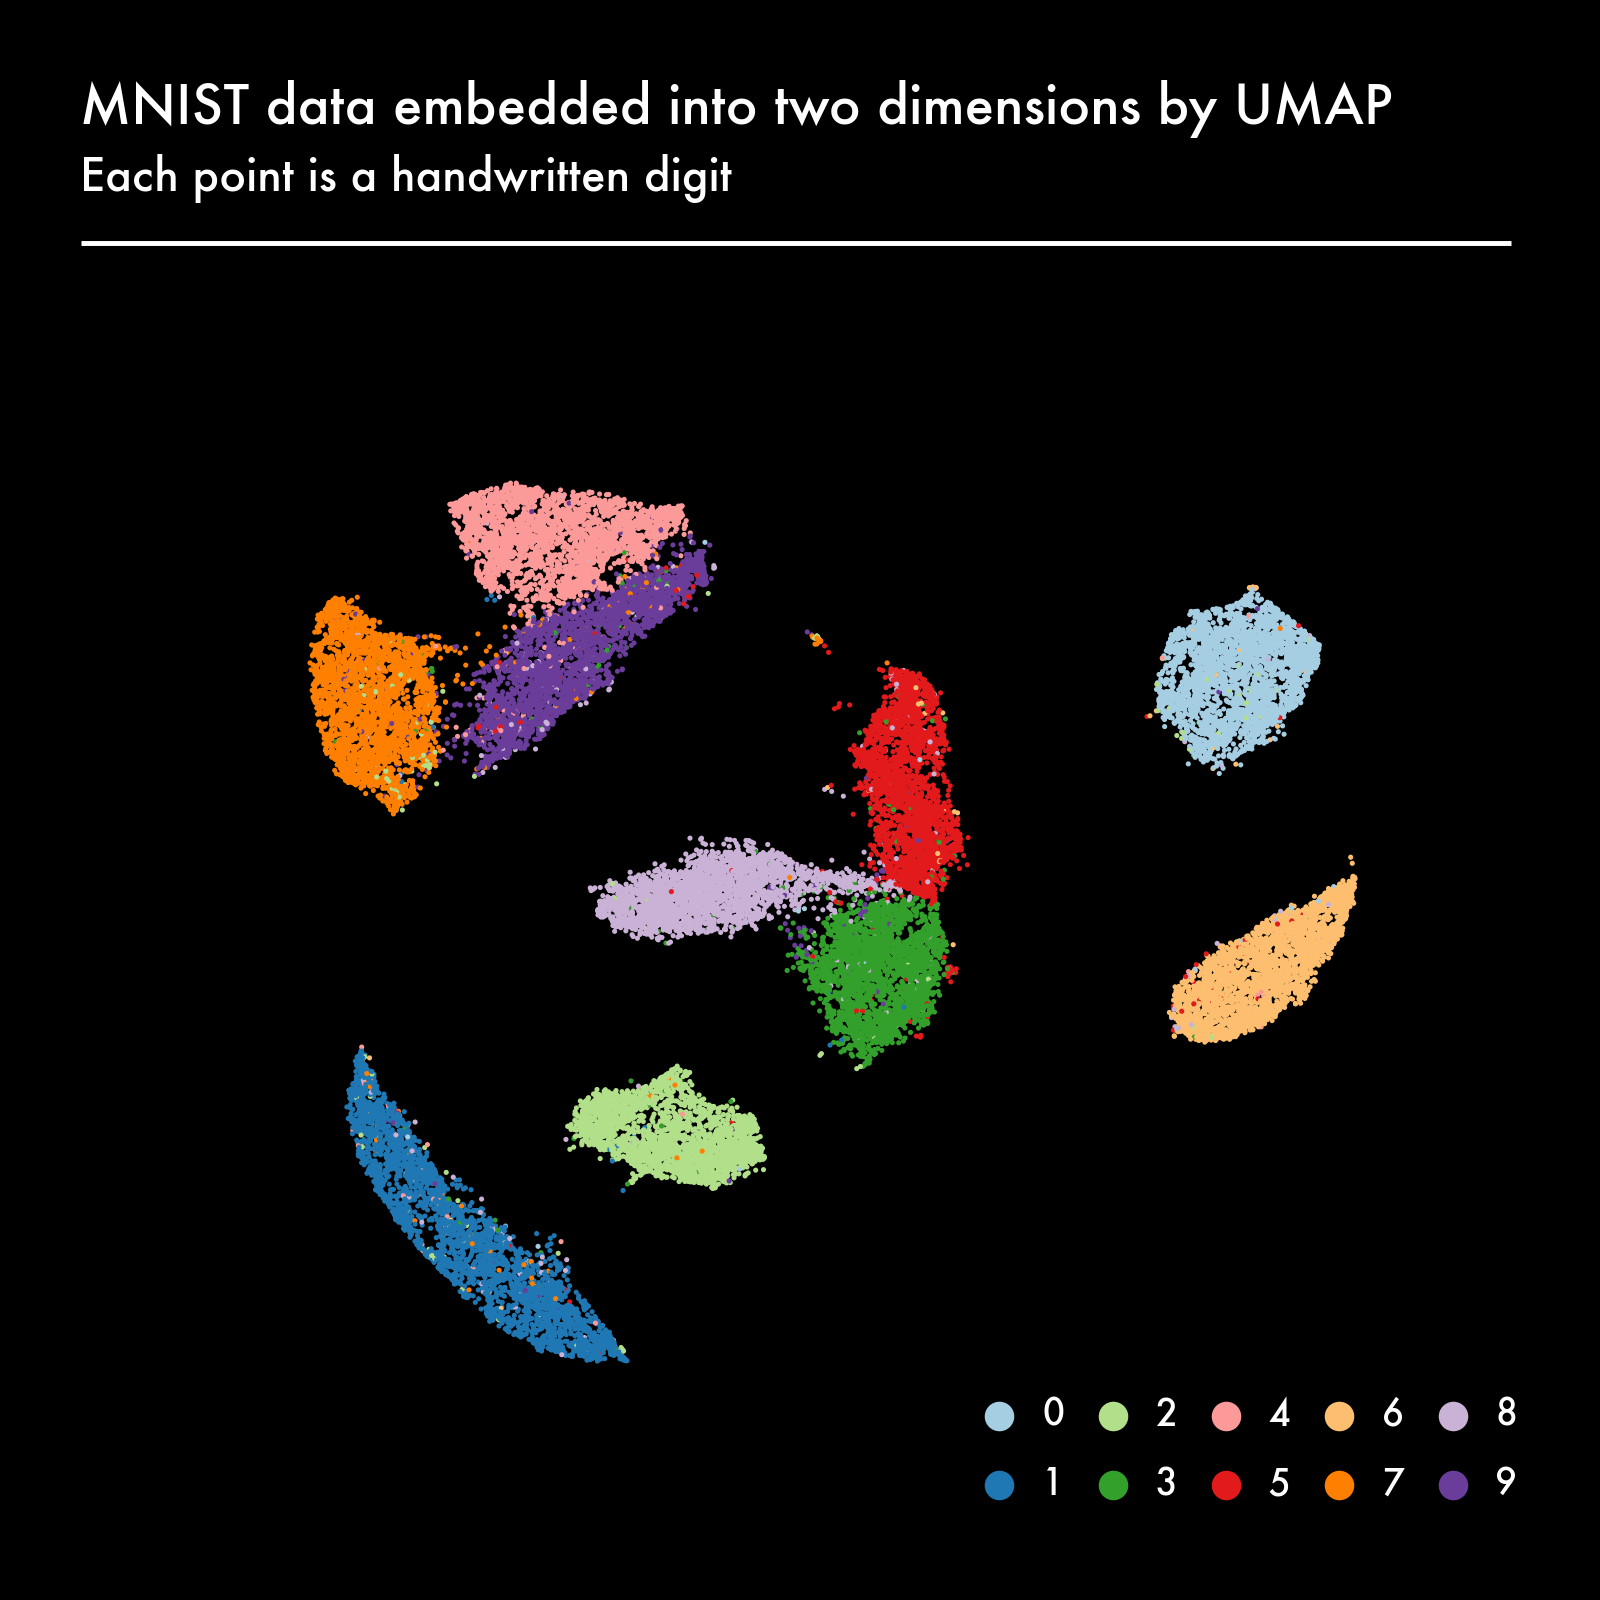
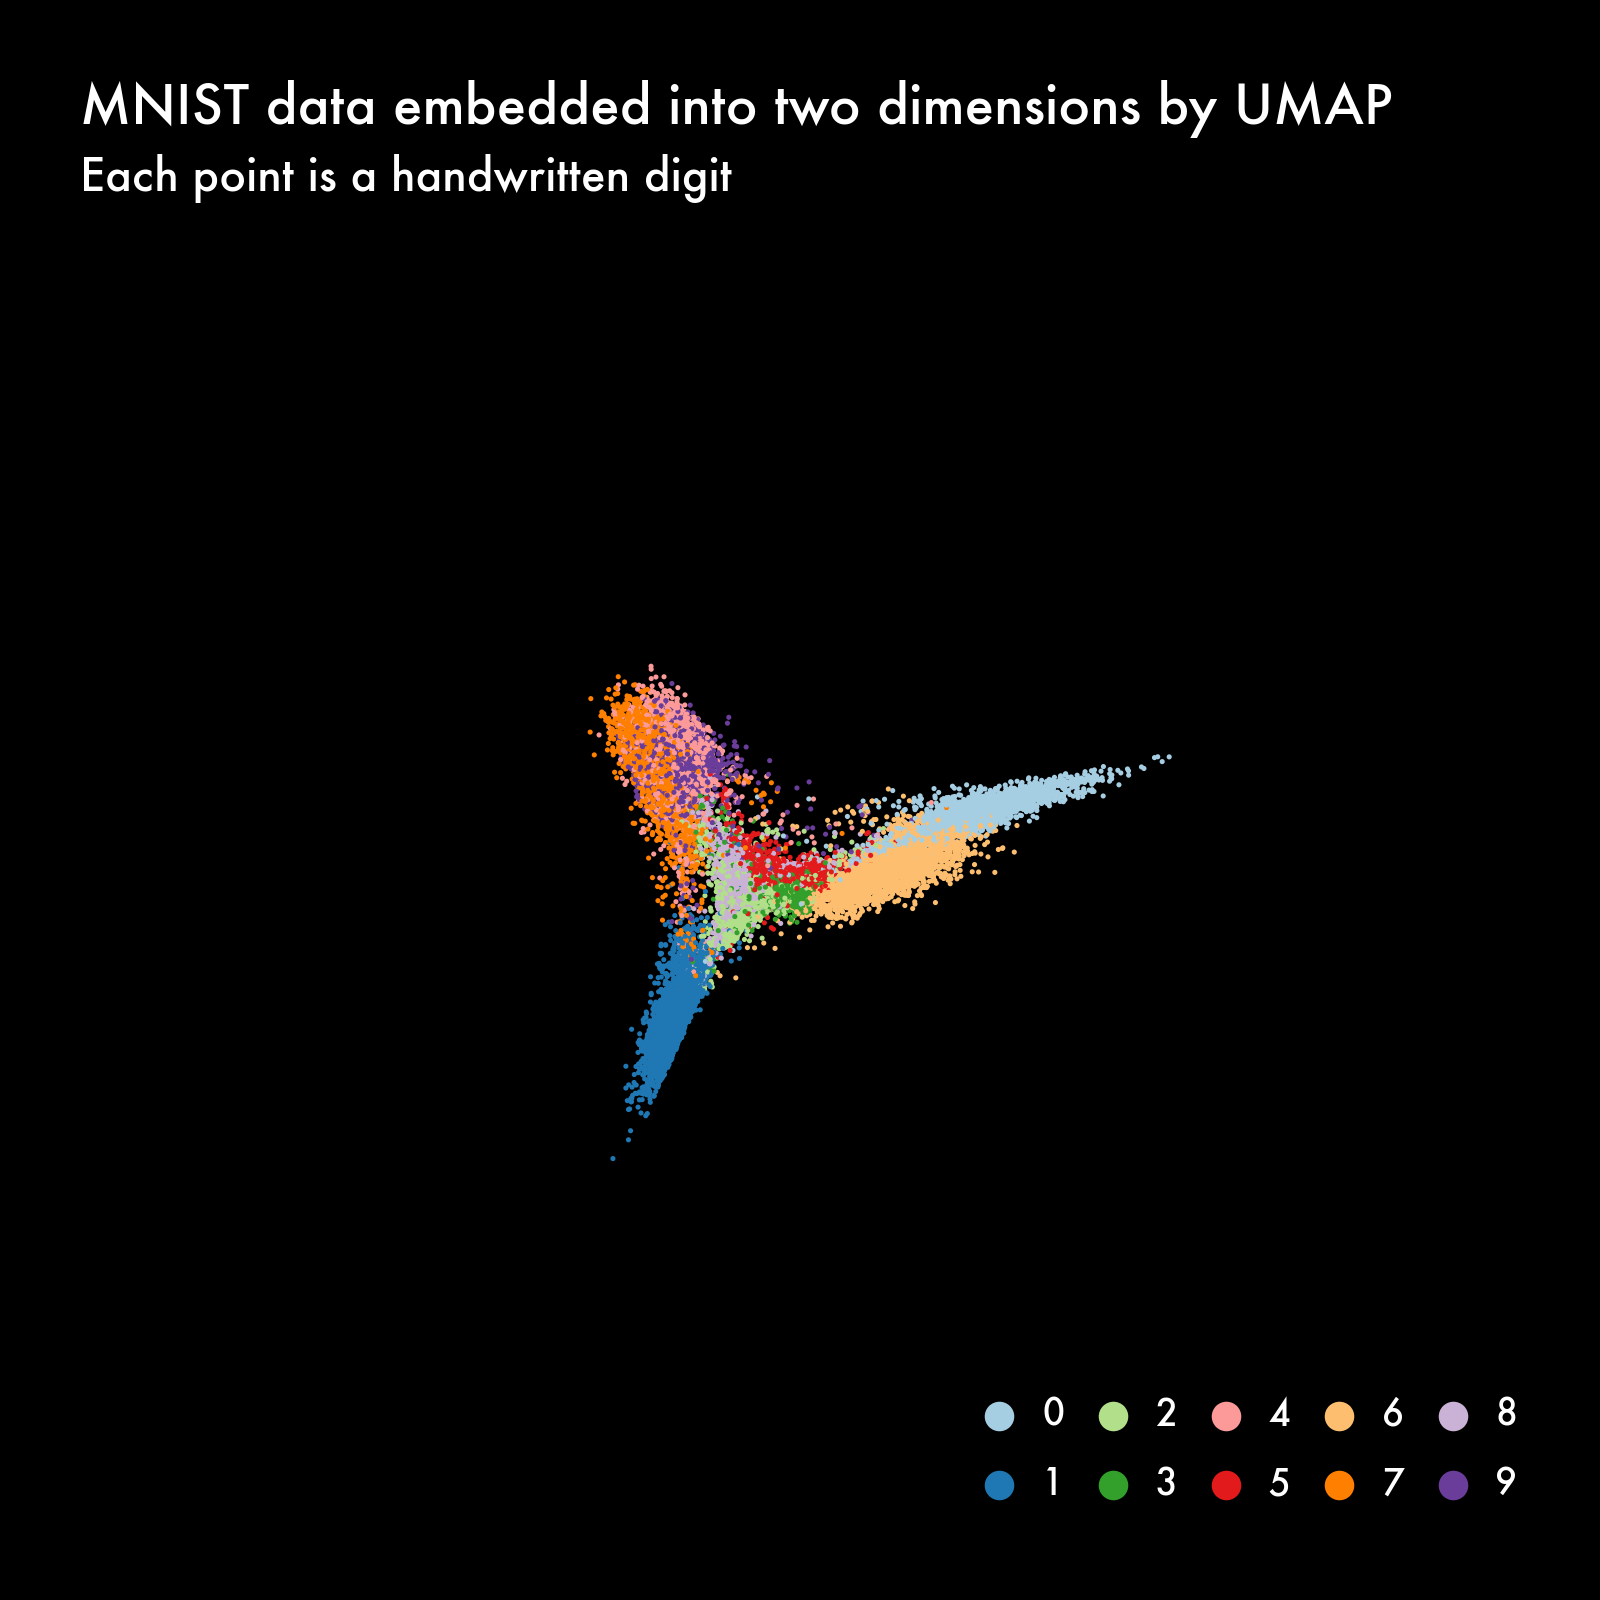
Add introduction

diff --git a/README.md b/README.md
@@ -1,5 +1,32 @@
-# UMAP Animated
+# Dimensionality Reduction, Animated
 
+
+<img align="right" width="400" height="400" src="images/intro.png">
+
+Understanding your data is key in any data science project.
+Visualization is useful for this, but can be challenging when the data
+has a high dimensionality. This includes complex data such as text,
+images, and sensor measurements. You could create a scatter plot matrix,
+but this can only show how any two features interact and fails to
+capture structure across many dimensions.
+
+There’s an entire subfield within machine learning concerned with
+exactly this challenge: dimensionality reduction. Dimensionality
+reduction algorithms can help you gain insight into your
+high-dimensional data and reveal whether there’s any structure. The
+current state-of-the-art dimensionality reduction algorithm is UMAP,
+which stands for Uniform Manifold Approximation and Projection for
+Dimension Reduction.
+
+In this post we’re going to apply UMAP to the MNIST dataset, a
+collection of 70,000 handwritten digits. Each digit is an image of 28 by
+28 grayscale pixels, making the dimensionality of the dataset 784. UMAP
+will embed this dataset into two dimensions, allowing us to understand
+its structure.
+
+To be honest, the MNIST dataset is already used way too often in machine
+learning demos, including those about UMAP. What’s done less often, is
+look at how UMAP creates an embedding.
 
 ``` python
 from plotnine import *
@@ -152,13 +179,13 @@ def plot_digits(df_, height=3):
 plot_digits(df_pixels.filter(pl.col("digit") == "7"))
 ```
 
-![](visualize_files/figure-commonmark/cell-9-output-1.png)
+![](visualize_files/figure-commonmark/cell-10-output-1.png)
 
 ``` python
 plot_digits(df_pixels, height=8)
 ```
 
-![](visualize_files/figure-commonmark/cell-10-output-1.png)
+![](visualize_files/figure-commonmark/cell-11-output-1.png)
 
 ## Plot embedding
 
@@ -193,7 +220,7 @@ num_digits = df_epochs.select(pl.col("index").max()).item() + 1
 ```
 
 ``` python
-def plot_embedding(df_, epoch, max_epochs, legend=True):
+def plot_embedding(df_, epoch, max_epochs, legend=True, dpi=100):
     df_ = (df_.filter(pl.col("epoch") == epoch))
     
     frame = (
@@ -209,14 +236,15 @@ def plot_embedding(df_, epoch, max_epochs, legend=True):
               subtitle="Each point is a handwritten digit")
         + theme_void(base_size=16, base_family="Futura")
         + theme(
-           text=element_text(color="white"),
-           plot_title=element_text(ha="left"),
-           plot_caption=element_text(ha="left"),
-           axis_title=element_blank(),
-           axis_text=element_blank(),
-           plot_margin=0.05,
-           plot_background=element_rect(fill="black"),
-           figure_size=(8, 8)
+            text=element_text(color="white"),
+            plot_title=element_text(ha="left"),
+            plot_caption=element_text(ha="left"),
+            axis_title=element_blank(),
+            axis_text=element_blank(),
+            plot_margin=0.05,
+            plot_background=element_rect(fill="black"),
+            figure_size=(8, 8),
+            dpi=dpi
         )
     )
 
@@ -232,22 +260,26 @@ def plot_embedding(df_, epoch, max_epochs, legend=True):
 ```
 
 ``` python
+plot_embedding(df_epochs, num_epochs-1, num_epochs, legend=True, dpi=50).save("images/intro.png", verbose=False)
+```
+
+``` python
 plot_embedding(df_epochs, 0, num_epochs)
 ```
 
-![](visualize_files/figure-commonmark/cell-14-output-1.png)
+![](visualize_files/figure-commonmark/cell-16-output-1.png)
 
 ``` python
 plot_embedding(df_epochs, num_epochs//4, num_epochs)
 ```
 
-![](visualize_files/figure-commonmark/cell-15-output-1.png)
+![](visualize_files/figure-commonmark/cell-17-output-1.png)
 
 ``` python
 plot_embedding(df_epochs, num_epochs-1, num_epochs)
 ```
 
-![](visualize_files/figure-commonmark/cell-16-output-1.png)
+![](visualize_files/figure-commonmark/cell-18-output-1.png)
 
 ## Combine into one picture
 
